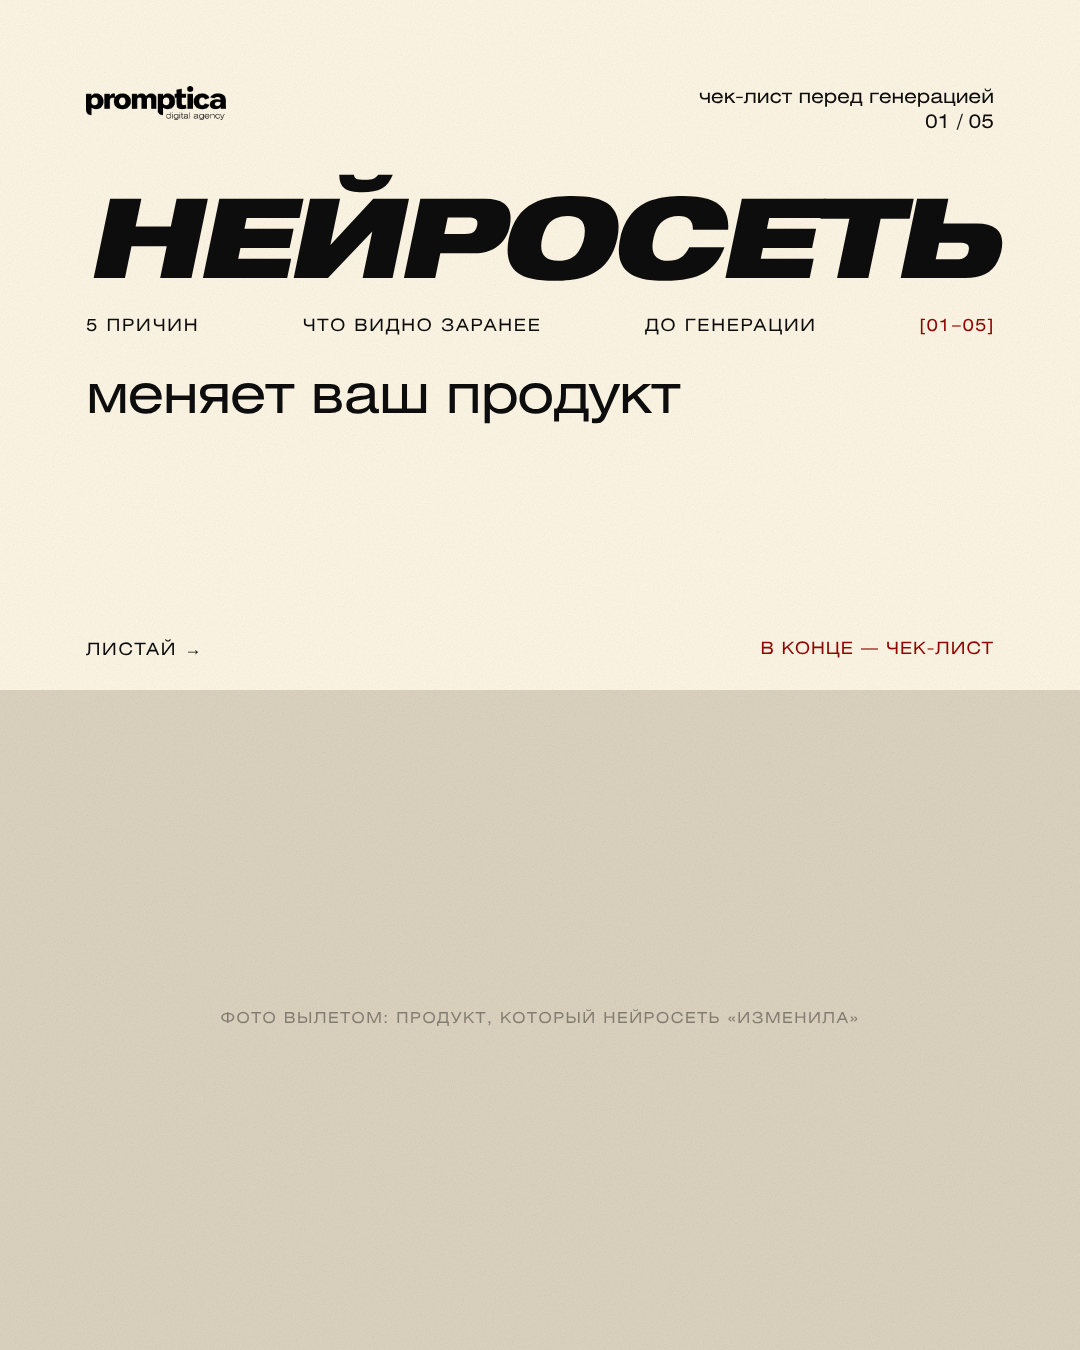
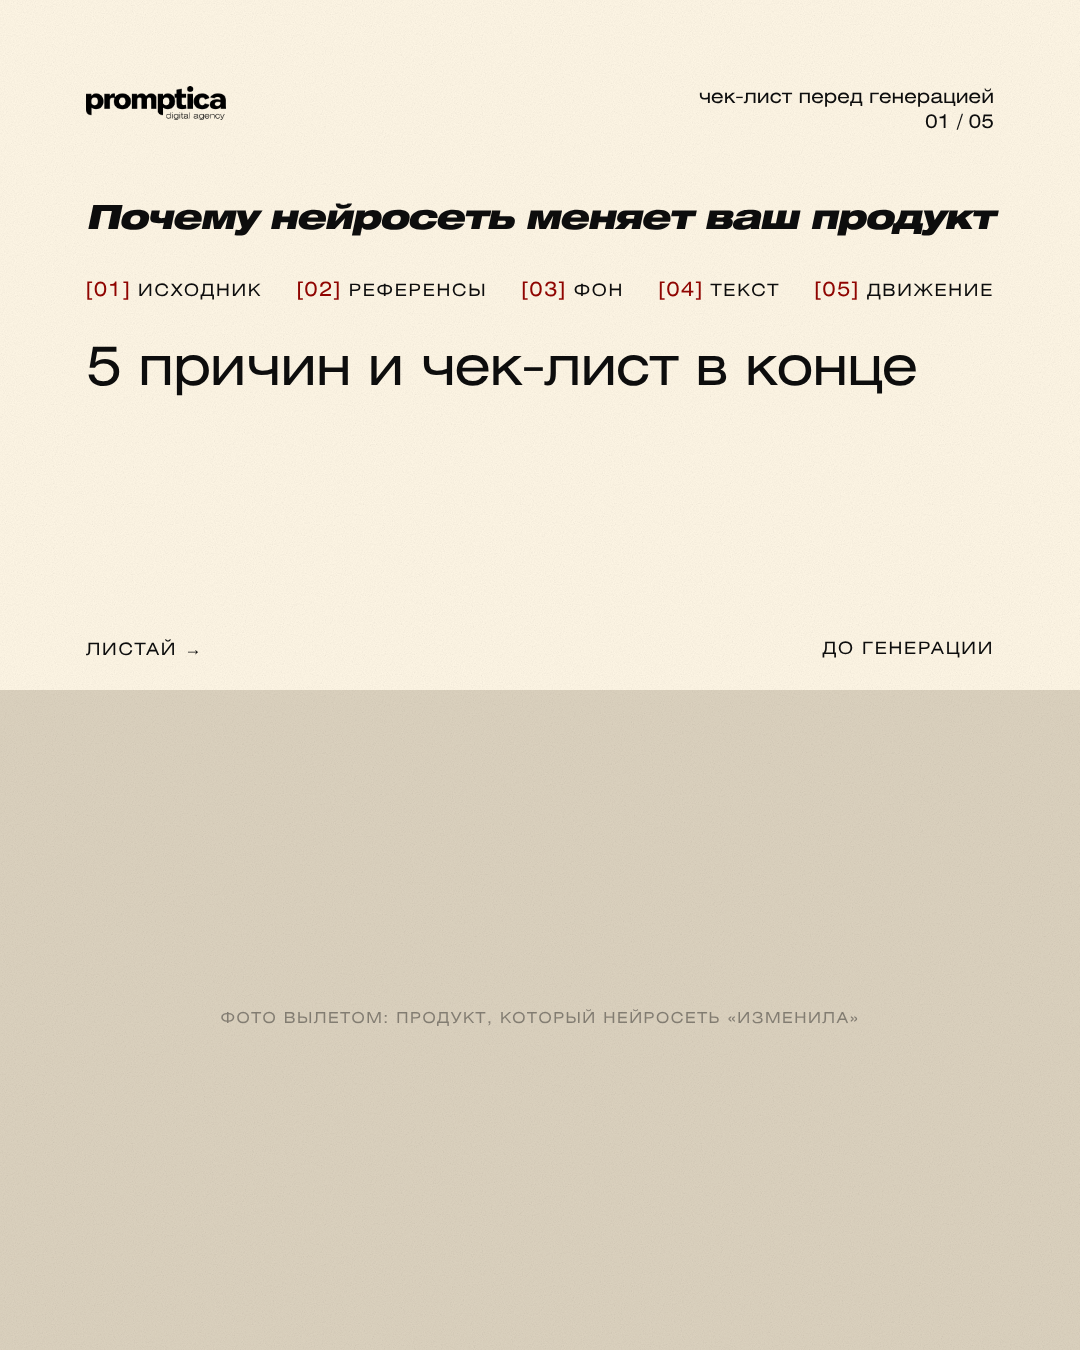
«Почему нейросеть меняет продукт»: слайд 1 — заголовок одной строкой + индекс причин
Claude-Session: https://claude.ai/code/session_01V1NUh11xrVMcB1cs4GV2qz

Changed region(s): [[0.0611, 0.1244, 0.9472, 0.3111], [0.7028, 0.4667, 0.9167, 0.4978]]

diff --git a/carousels/promptica-why-ai-changes-product/01.html b/carousels/promptica-why-ai-changes-product/01.html
@@ -7,13 +7,13 @@
 </head>
 <body>
   <div class="slide ">
-    <div class="abs" style="left:86px;top:190px;width:908px">
-      <div class="fit" data-fit="908">Нейросеть</div>
-      <div class="mrow" style="margin-top:34px"><span>5 причин</span><span>что видно заранее</span><span>до генерации</span><span class="br" style="font-size:17px">[01–05]</span></div>
-      <div style="font-size:54px;line-height:1.05;margin-top:34px;letter-spacing:-0.02em">меняет ваш продукт</div>
+    <div class="abs" style="left:86px;top:200px;width:908px">
+      <div class="fit" data-fit="908" style="text-transform:none;letter-spacing:-0.04em;line-height:1">Почему нейросеть меняет ваш продукт</div>
+      <div class="mrow" style="margin-top:44px"><span><b class="br" style="font-weight:400">[01]</b> исходник</span><span><b class="br" style="font-weight:400">[02]</b> референсы</span><span><b class="br" style="font-weight:400">[03]</b> фон</span><span><b class="br" style="font-weight:400">[04]</b> текст</span><span><b class="br" style="font-weight:400">[05]</b> движение</span></div>
+      <div style="font-size:54px;line-height:1.05;margin-top:40px;letter-spacing:-0.02em">5 причин и чек-лист в конце</div>
     </div>
     <div class="ph" style="left:0px;top:690px;width:1080px;height:660px"><div class="hn">фото вылетом: продукт, который нейросеть «изменила»</div><img src="img/01-a.jpg" alt="" onerror="this.remove()"></div>
-    <div class="abs mrow" style="left:86px;width:908px;top:640px;font-size:17px"><span>листай →</span><span class="br" style="font-size:17px">в конце — чек-лист</span></div>
+    <div class="abs mrow" style="left:86px;width:908px;top:640px;font-size:17px"><span>листай →</span><span>до генерации</span></div>
     <div class="hd"><img src="../../assets/logo_black.png" alt="promptica"></div>
     <div class="mt">чек-лист перед генерацией<br>01 / 05</div>
     <svg class="grain"><filter id="g"><feTurbulence type="fractalNoise" baseFrequency=".9" numOctaves="3" seed="1" stitchTiles="stitch"/><feColorMatrix type="saturate" values="0"/></filter><rect width="100%" height="100%" filter="url(#g)"/></svg>
